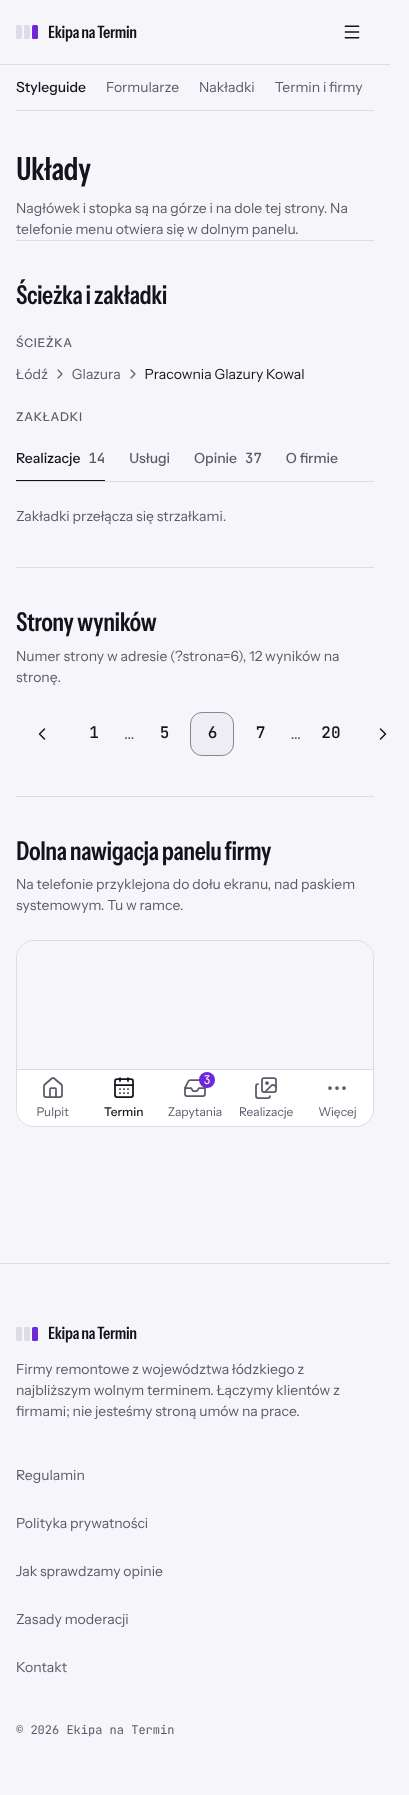
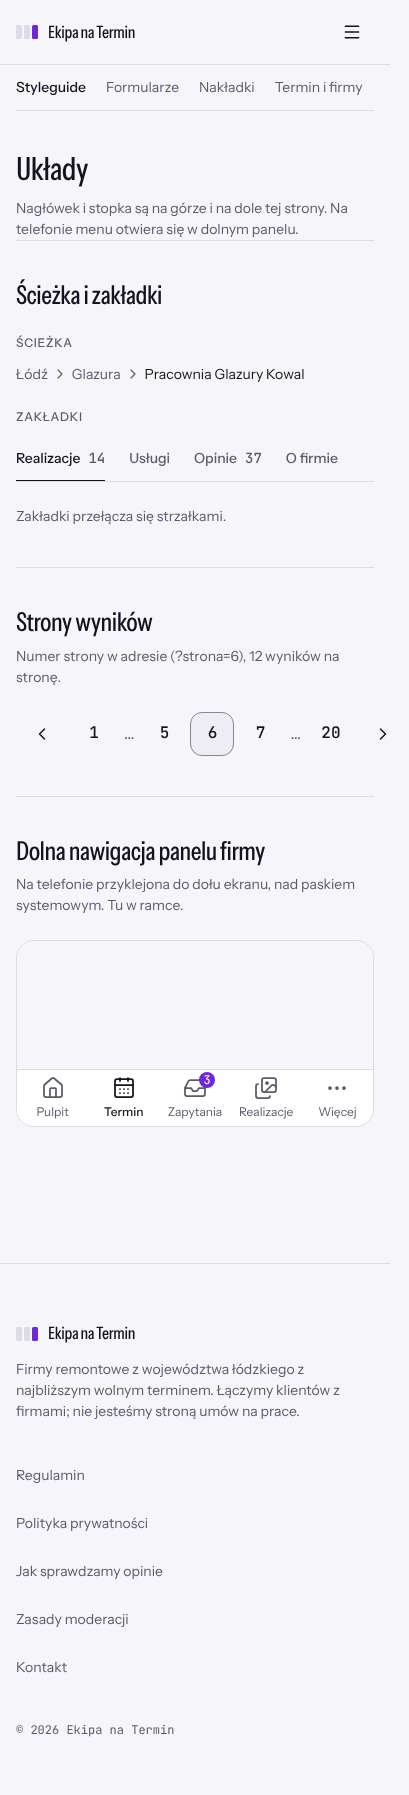
style(ui): materia powierzchni, szkliwione kafle i lżejsze nagłówki
Runda krytyki designu (prompt pomocniczy z PROMPTY): jasna górna krawędź kart i paneli
(inset-shadow-edge, tylko ciemny motyw), kafle terminu jak szkliwione płytki, cienka ramka
zdjęć, nagłówki w wadze medium, wciśnięcie przycisków. Nowe zrzuty w docs/screens/styleguide.

Claude-Session: https://claude.ai/code/session_01PNs4mMWwt3HKqYLJoFxrJy

diff --git a/src/components/features/firm/FirmProfileHeader.tsx b/src/components/features/firm/FirmProfileHeader.tsx
@@ -36,7 +36,7 @@ export function FirmProfileHeader({ firm, today }: Props) {
   return (
     <div className="grid gap-x-6 gap-y-6 lg:grid-cols-12">
       <div className="lg:col-span-8">
-        <div className="overflow-hidden rounded-card border border-line bg-surface-1">
+        <div className="overflow-hidden rounded-card border border-line bg-surface-1 inset-shadow-edge">
           <FirmPhoto
             photo={firm.photo}
             sizes="(min-width: 1240px) 810px, (min-width: 1024px) 66vw, 100vw"
@@ -51,12 +51,12 @@ export function FirmProfileHeader({ firm, today }: Props) {
         <div className="mt-6 flex items-start gap-4">
           <div
             aria-hidden="true"
-            className="flex size-14 shrink-0 items-center justify-center rounded-control border border-line bg-surface-2 font-display text-h3 font-semibold"
+            className="flex size-14 shrink-0 items-center justify-center rounded-control border border-line bg-surface-2 font-display text-h3 font-medium"
           >
             {initials}
           </div>
           <div className="flex flex-col gap-1">
-            <h1 className="font-display text-h1 font-semibold">{firm.name}</h1>
+            <h1 className="font-display text-h1 font-medium">{firm.name}</h1>
             <p className="text-body text-text-muted">
               {firm.services} · {firmArea(firm)}
             </p>
@@ -67,7 +67,7 @@ export function FirmProfileHeader({ firm, today }: Props) {
 
       <aside
         aria-label="Termin i kontakt"
-        className="sticky-cta fixed inset-x-0 bottom-0 z-30 border-t border-line bg-surface-1 px-4 pt-3 lg:static lg:col-span-4 lg:self-start lg:rounded-card lg:border lg:p-6"
+        className="sticky-cta fixed inset-x-0 bottom-0 z-30 border-t border-line bg-surface-1 px-4 pt-3 lg:static lg:col-span-4 lg:self-start lg:rounded-card lg:border lg:p-6 lg:inset-shadow-edge"
       >
         <p className="sr-only">{availabilityDescription(today, availability, firm.confirmedOn)}</p>
         <div
@@ -77,7 +77,7 @@ export function FirmProfileHeader({ firm, today }: Props) {
           <p className="hidden text-micro uppercase tracking-caps text-text-muted lg:block">
             Najbliższy wolny termin
           </p>
-          <p className="font-display text-h3 font-semibold">{availabilityLabel(availability)}</p>
+          <p className="font-display text-h3 font-medium">{availabilityLabel(availability)}</p>
           {confirmed && <p className="text-small text-text-muted">{confirmed}</p>}
         </div>
         <div className="mt-3 flex gap-3 lg:mt-6 lg:flex-col">

diff --git a/src/app/(frontend)/globals.css b/src/app/(frontend)/globals.css
@@ -27,6 +27,12 @@
   --fs-h3: 1.3125rem;
   --fs-lead: 1.0625rem;
 
+  /* Materia (DESIGN §1: precyzja, nie ozdobniki): światło górnej krawędzi powierzchni, szkliwo kafla, ramka zdjęcia. */
+  --edge: rgb(255 255 255 / 0.05);
+  --glaze: rgb(255 255 255 / 0.07);
+  --glaze-shade: rgb(0 0 0 / 0.22);
+  --photo-edge: rgb(255 255 255 / 0.07);
+
   --duration-state: 150ms;
   --duration-enter: 250ms;
   --duration-page: 400ms;
@@ -52,6 +58,10 @@
   --on-accent: #ffffff;
   --success: #166534;
   --danger: #b91c1c;
+  --edge: rgb(255 255 255 / 0);
+  --glaze: rgb(255 255 255 / 0.75);
+  --glaze-shade: rgb(22 18 29 / 0.08);
+  --photo-edge: rgb(22 18 29 / 0.08);
 }
 
 @media (width >= 48rem) {
@@ -91,6 +101,11 @@
   --radius-badge: 8px;
   --radius-tile: 3px;
   --radius-tile-lg: 6px;
+
+  /* Światło górnej krawędzi (łączy się z shadow-*): powierzchnie i główny przycisk. */
+  --inset-shadow-*: initial;
+  --inset-shadow-edge: inset 0 1px 0 var(--edge);
+  --inset-shadow-glaze: inset 0 1px 0 rgb(255 255 255 / 0.2);
 
   --shadow-float: 0 16px 40px -16px rgb(11 9 16 / 0.55), 0 2px 8px -2px rgb(11 9 16 / 0.3);
 
@@ -248,6 +263,18 @@
   }
 }
 
+/* Cienka ramka na zdjęciu oddziela je od ciemnej powierzchni. */
+@utility photo-frame {
+  &::after {
+    content: '';
+    position: absolute;
+    inset: 0;
+    border-radius: inherit;
+    box-shadow: inset 0 0 0 1px var(--photo-edge);
+    pointer-events: none;
+  }
+}
+
 @layer components {
   /* Role krojów (ADR 0013, DESIGN §4). */
   .font-display {
@@ -337,6 +364,9 @@
 
   .tile[data-tile='taken'] {
     background-color: var(--line);
+    box-shadow:
+      inset 0 1px 0 var(--glaze),
+      inset 0 -1px 0 var(--glaze-shade);
   }
 
   .tile[data-tile='open'] {
@@ -346,6 +376,9 @@
   .tile:is([data-tile='free'], [data-tile='beyond']) {
     background-color: var(--accent);
     color: var(--on-accent);
+    box-shadow:
+      inset 0 1px 0 rgb(255 255 255 / 0.3),
+      inset 0 -1px 0 rgb(0 0 0 / 0.2);
     /* Fiolet zapala się chwilę po pojawieniu się kafla. */
     transition-delay:
       calc(var(--step, 0) * var(--tile-stagger, 0ms)),

diff --git a/src/components/ui/Button.tsx b/src/components/ui/Button.tsx
@@ -8,13 +8,14 @@ import { cn } from '@/lib/cn'
 import { Icon } from './Icon'
 
 export const buttonVariants = cva(
-  'inline-flex shrink-0 cursor-pointer select-none items-center justify-center gap-2 whitespace-nowrap rounded-control font-semibold transition-colors duration-150 ease-standard disabled:cursor-not-allowed disabled:opacity-50 aria-busy:cursor-progress',
+  'inline-flex shrink-0 cursor-pointer select-none items-center justify-center gap-2 whitespace-nowrap rounded-control font-semibold transition duration-150 ease-standard active:scale-98 disabled:cursor-not-allowed disabled:opacity-50 aria-busy:cursor-progress',
   {
     variants: {
       variant: {
         // Najwyżej jeden przycisk primary na ekranie (DESIGN §3).
-        primary: 'bg-accent text-on-accent hover:bg-accent-hover',
-        secondary: 'border border-line-strong bg-surface-2 text-text hover:border-text-muted',
+        primary: 'bg-accent text-on-accent inset-shadow-glaze hover:bg-accent-hover',
+        secondary:
+          'border border-line-strong bg-surface-2 text-text inset-shadow-edge hover:border-text-muted',
         ghost: 'text-text hover:bg-surface-2',
         danger: 'border border-danger text-danger hover:bg-surface-2',
       },

diff --git a/src/components/ui/Sheet.tsx b/src/components/ui/Sheet.tsx
@@ -53,7 +53,7 @@ export function SheetContent({
             if (info.offset.y > CLOSE_OFFSET || info.velocity.y > CLOSE_VELOCITY) onDismiss()
           }}
           className={cn(
-            'sheet-panel fixed inset-x-0 bottom-0 z-40 mx-auto flex w-full max-w-xl flex-col gap-4 overflow-y-auto rounded-t-card border border-b-0 border-line bg-surface-1 px-4 pt-3 shadow-float state-open:animate-sheet-in state-closed:animate-sheet-out md:px-6',
+            'sheet-panel fixed inset-x-0 bottom-0 z-40 mx-auto flex w-full max-w-xl flex-col gap-4 overflow-y-auto rounded-t-card border border-b-0 border-line bg-surface-1 px-4 pt-3 shadow-float inset-shadow-edge state-open:animate-sheet-in state-closed:animate-sheet-out md:px-6',
             className,
           )}
         >
@@ -62,7 +62,7 @@ export function SheetContent({
             aria-hidden="true"
           />
           <div className="flex items-start justify-between gap-4">
-            <DialogPrimitive.Title className="font-display text-h3 font-semibold">
+            <DialogPrimitive.Title className="font-display text-h3 font-medium">
               {title}
             </DialogPrimitive.Title>
             <DialogPrimitive.Close asChild>

diff --git a/src/components/features/firm/FirmCard.tsx b/src/components/features/firm/FirmCard.tsx
@@ -26,7 +26,7 @@ export function FirmCard({ firm, today, href = `/firma/${firm.slug}`, className 
     <Link
       href={href}
       className={cn(
-        'group grid overflow-hidden rounded-card border border-line bg-surface-1 transition-colors duration-400 ease-standard hover:border-line-strong md:grid-cols-12',
+        'group grid overflow-hidden rounded-card border border-line bg-surface-1 inset-shadow-edge transition-colors duration-400 ease-standard hover:border-line-strong md:grid-cols-12',
         className,
       )}
     >
@@ -37,7 +37,7 @@ export function FirmCard({ firm, today, href = `/firma/${firm.slug}`, className 
         className="aspect-4/3 md:col-span-3"
       />
       <div className="flex flex-col gap-1 p-4 md:col-span-5 md:p-6">
-        <h3 className="font-display text-h3 font-semibold">{firm.name}</h3>
+        <h3 className="font-display text-h3 font-medium">{firm.name}</h3>
         <p className="text-small text-text-muted">{firm.services}</p>
         <p className="text-small text-text-muted">{firmArea(firm)}</p>
         <FirmFacts firm={firm} className="mt-auto pt-3" />

diff --git a/src/app/(frontend)/styleguide/page.tsx b/src/app/(frontend)/styleguide/page.tsx
@@ -5,7 +5,7 @@ import { GROUPS } from './_data'
 export default function StyleguidePage() {
   return (
     <div className="py-10 md:py-16">
-      <h1 className="font-display text-display font-semibold">Styleguide</h1>
+      <h1 className="font-display text-display font-medium">Styleguide</h1>
       <p className="mt-3 max-w-prose text-lead text-text-muted">
         Komponenty Ekipy na Termin we wszystkich stanach, w kierunku B „Grafik” (ADR 0013).
         Przełącznik motywu jest w nagłówku.
@@ -17,7 +17,7 @@ export default function StyleguidePage() {
               href={`/styleguide/${group.slug}`}
               className="flex w-full flex-col gap-2 rounded-card border border-line bg-surface-1 p-6 transition-colors duration-400 ease-standard hover:border-line-strong"
             >
-              <span className="font-display text-h3 font-semibold">{group.title}</span>
+              <span className="font-display text-h3 font-medium">{group.title}</span>
               <span className="text-small text-text-muted">{group.description}</span>
             </Link>
           </li>

diff --git a/src/components/ui/Dialog.tsx b/src/components/ui/Dialog.tsx
@@ -46,13 +46,13 @@ export function DialogContent({
       <Overlay />
       <DialogPrimitive.Content
         className={cn(
-          'dialog-panel fixed start-1/2 top-1/2 z-40 flex -translate-x-1/2 -translate-y-1/2 flex-col gap-4 overflow-y-auto rounded-card border border-line bg-surface-1 p-6 shadow-float state-open:animate-pop-in state-closed:animate-pop-out',
+          'dialog-panel fixed start-1/2 top-1/2 z-40 flex -translate-x-1/2 -translate-y-1/2 flex-col gap-4 overflow-y-auto rounded-card border border-line bg-surface-1 p-6 shadow-float inset-shadow-edge state-open:animate-pop-in state-closed:animate-pop-out',
           className,
         )}
         {...props}
       >
         <div className="flex items-start justify-between gap-4">
-          <DialogPrimitive.Title className="font-display text-h3 font-semibold">
+          <DialogPrimitive.Title className="font-display text-h3 font-medium">
             {title}
           </DialogPrimitive.Title>
           <DialogPrimitive.Close asChild>

diff --git a/src/app/(frontend)/styleguide/termin/page.tsx b/src/app/(frontend)/styleguide/termin/page.tsx
@@ -32,7 +32,7 @@ const SIZES: Array<{ size: TileSize; label: string }> = [
 export default function AvailabilityPage() {
   return (
     <>
-      <h1 className="pt-10 font-display text-h1 font-semibold md:pt-16">Termin i firmy</h1>
+      <h1 className="pt-10 font-display text-h1 font-medium md:pt-16">Termin i firmy</h1>
 
       <Section
         title="Kafel terminu"
@@ -44,7 +44,7 @@ export default function AvailabilityPage() {
               {STATES.map((state) => (
                 <div
                   key={state.title}
-                  className="rounded-card border border-line bg-surface-1 p-4 md:p-6"
+                  className="rounded-card border border-line bg-surface-1 p-4 inset-shadow-edge md:p-6"
                 >
                   <p className="mb-4 text-small text-text-muted">{state.title}</p>
                   <AvailabilityTiles

diff --git a/src/components/features/firm/FirmBoard.tsx b/src/components/features/firm/FirmBoard.tsx
@@ -25,7 +25,12 @@ const dayLabel = (date: CalendarDate, index: number) =>
 /** Grafik (ADR 0013): firmy na wspólnej osi 14 dni – kto może zacząć najwcześniej. */
 export function FirmBoard({ firms, today, className }: Props) {
   return (
-    <div className={cn('overflow-hidden rounded-card border border-line bg-surface-1', className)}>
+    <div
+      className={cn(
+        'overflow-hidden rounded-card border border-line bg-surface-1 inset-shadow-edge',
+        className,
+      )}
+    >
       <div
         aria-hidden="true"
         className="hidden border-b border-line px-6 py-3 text-micro uppercase tracking-caps text-text-muted lg:grid lg:grid-cols-12 lg:gap-x-6"

diff --git a/src/components/ui/Toast.tsx b/src/components/ui/Toast.tsx
@@ -60,7 +60,7 @@ export function Toaster() {
             onOpenChange={(open) => {
               if (!open) dismiss(item.id)
             }}
-            className="flex w-full items-start gap-3 rounded-card border border-line bg-surface-1 p-4 shadow-float state-open:animate-toast-in state-closed:animate-fade-out"
+            className="flex w-full items-start gap-3 rounded-card border border-line bg-surface-1 p-4 shadow-float inset-shadow-edge state-open:animate-toast-in state-closed:animate-fade-out"
           >
             {toneIcon && (
               <Icon

diff --git a/src/app/(frontend)/styleguide/przejscie/page.tsx b/src/app/(frontend)/styleguide/przejscie/page.tsx
@@ -5,7 +5,7 @@ import { DEMO_TODAY, FIRMS } from '../_data'
 export default function TransitionListPage() {
   return (
     <div className="py-10 md:py-16">
-      <h1 className="font-display text-h1 font-semibold">Przejście karta → profil</h1>
+      <h1 className="font-display text-h1 font-medium">Przejście karta → profil</h1>
       <p className="mt-3 max-w-prose text-small text-text-muted">
         Kliknij kartę: zdjęcie przechodzi w nagłówek profilu (View Transitions, 400 ms). Przy
         ograniczonym ruchu strona zmienia się od razu.

diff --git a/src/app/(frontend)/styleguide/przejscie/[slug]/page.tsx b/src/app/(frontend)/styleguide/przejscie/[slug]/page.tsx
@@ -24,7 +24,7 @@ export default async function TransitionProfilePage({ params }: Props) {
       />
       <FirmProfileHeader firm={firm} today={DEMO_TODAY} />
       <section aria-labelledby="realizacje" className="border-t border-line pt-8">
-        <h2 id="realizacje" className="font-display text-h2 font-semibold">
+        <h2 id="realizacje" className="font-display text-h2 font-medium">
           Realizacje <span className="font-data text-h3 text-text-muted">{PROJECTS.length}</span>
         </h2>
         <div className="mt-6">
